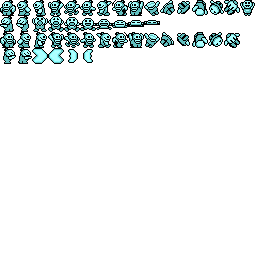
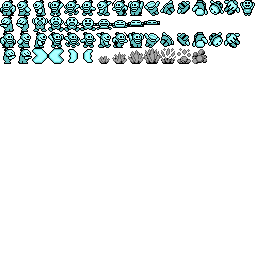
Respawn

Changed region(s): [[0.375, 0.1875, 0.8125, 0.25]]

diff --git a/cPlayer.cpp b/cPlayer.cpp
@@ -64,6 +64,9 @@ void cPlayer::Draw(int tex_id)
 		case STATE_PUSH_RIGHT:  xo = (GetFrame()*0.0625f); yo = 4*0.0625f;
 								NextFrame(2);
 								break;
+		case STATE_RESPAWN:		 xo = 6*0.0625f+(GetFrame()*0.0625f); yo = 4*0.0625f;
+								NextFrame(7);
+								break;
 	}
 	xf = xo + 0.0625f;
 	yf = yo - 0.0625f;
@@ -102,7 +105,7 @@ void cPlayer::Die() {
 }
 
 bool cPlayer::isDead() {
-	return dead;
+	return (dead || state == STATE_RESPAWN);
 }
 
 
@@ -118,6 +121,17 @@ void cPlayer::Logic(int *map) {
 	if(dead) {
 		timecount++;
 		if(timecount >= TIME_DEATH) {
+			timecount =0;
+			dead = false;
+			SetTile(INIT_PLAYER_X_TILE,INIT_PLAYER_Y_TILE);
+			invincible=true;
+			jumping= false;
+			state = STATE_RESPAWN;
+		}
+	}
+	else if(state == STATE_RESPAWN) {
+		timecount++;
+		if(timecount >= TIME_RESPAWN) {
 			timecount =0;
 			dead = false;
 			SetTile(INIT_PLAYER_X_TILE,INIT_PLAYER_Y_TILE);

diff --git a/cBicho.h b/cBicho.h
@@ -3,8 +3,8 @@
 #include "cObject.h"
 #include "cProjectile.h"
 
-#define JUMP_HEIGHT		96
-#define JUMP_STEP		4
+#define JUMP_HEIGHT			96
+#define JUMP_STEP			4
 
 #define STATE_LOOKLEFT		0
 #define STATE_LOOKRIGHT		1
@@ -16,7 +16,8 @@
 #define STATE_THROWRIGHT	7
 #define STATE_DIE			8
 #define STATE_PUSH_LEFT     9
-#define STATE_PUSH_RIGHT   10
+#define STATE_PUSH_RIGHT	10
+#define STATE_RESPAWN		11
 
 using namespace std;
 

diff --git a/Globals.h b/Globals.h
@@ -37,6 +37,7 @@
 #define PLAYER_MAX_LIVES	3
 #define TIME_INVINCIBLE		180
 #define TIME_DEATH			90
+#define TIME_RESPAWN		65
 #define STEP_LENGTH			2
 #define TIME_THROWING		19
 #define THROW_LOAD			10		//THROW_LOAD <= TIME_THROWING
